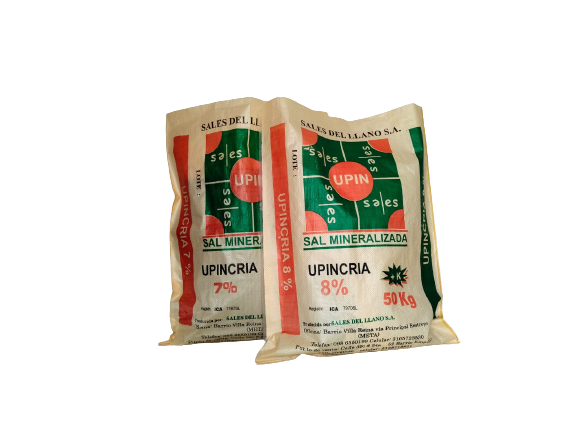
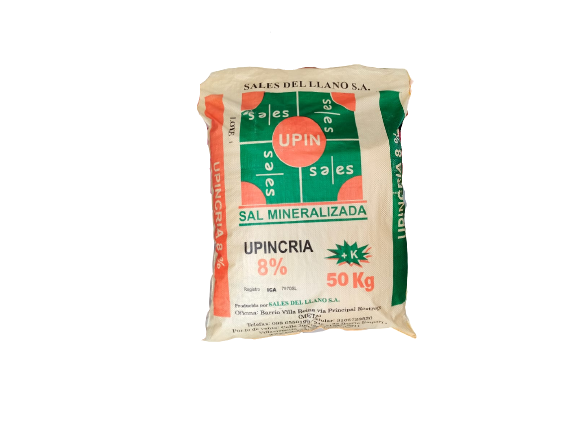
culminación detalles

Changed region(s): [[0.2808, 0.1501, 0.8111, 0.8406]]

diff --git a/index.html b/index.html
@@ -124,7 +124,7 @@
         data-aos-easing="ease-out-cubic"
         data-aos-duration="2000">
             <figure>
-                <img src="img/cria.png" class="img-fluid" alt="">
+                <img src="img/cria2.png" class="img-fluid" alt="">
 
             </figure>
             <div class="contenido">

diff --git a/upincria.html b/upincria.html
@@ -62,7 +62,7 @@
         <div class="seccion_producto">
         
         
-            <img src="img/cria.png" class="img-fluid" alt="">
+            <img src="img/cria2.png" class="img-fluid" alt="">
     
             
     
